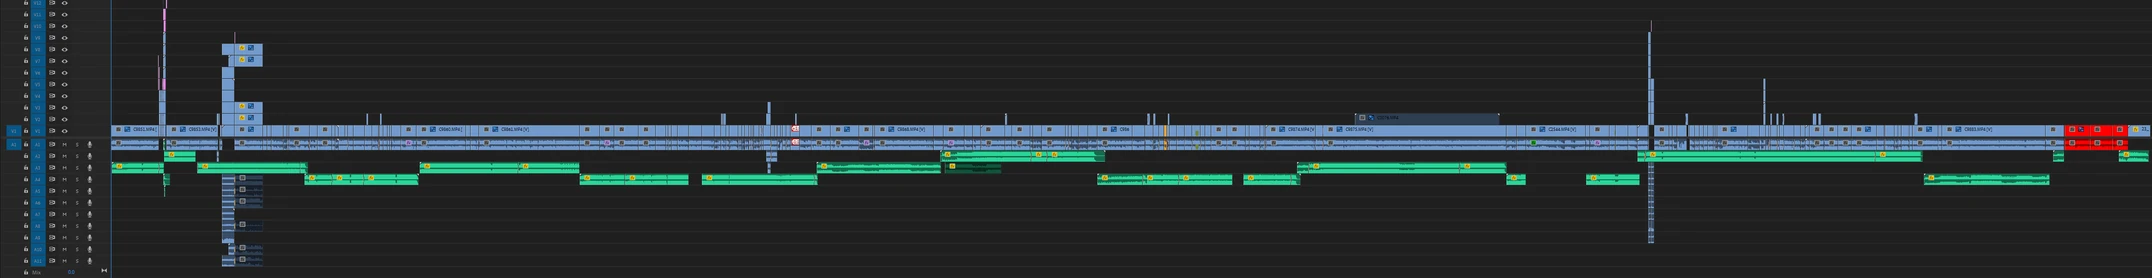
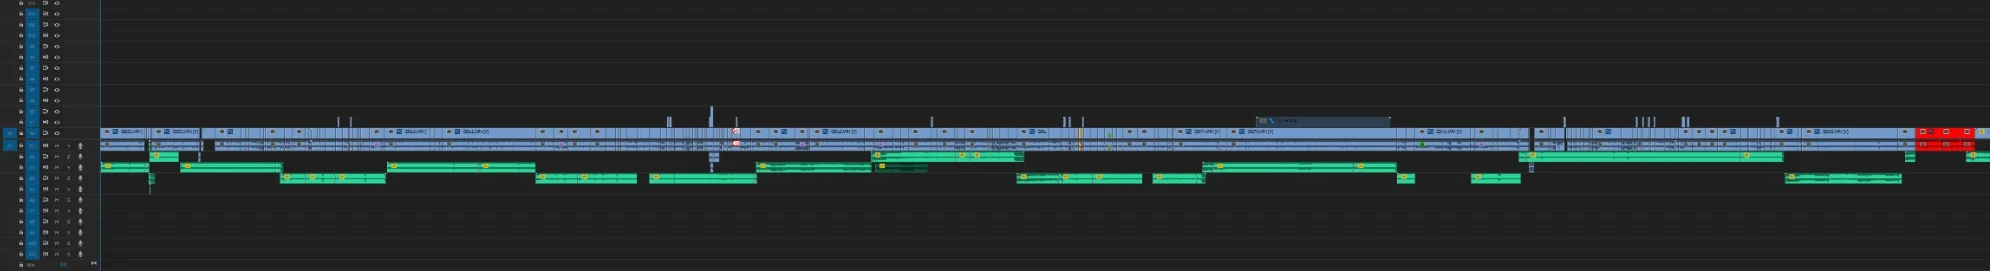
use the new clean timeline and credit the screenshots under the frame

Changed region(s): [[0.0, 0.0, 1.0, 0.9742]]

diff --git a/styles.css b/styles.css
@@ -632,17 +632,16 @@ body {
   grid-template-columns: min(100%, calc(var(--page) + 8rem));
   justify-content: center;
   align-content: center;
-  gap: 2rem;
   padding-inline: var(--pad);
 }
 
-/* Both timelines are cropped to exactly 2152x278, aligned on the V1/A1 track
+/* Both timelines are cropped to exactly 1990x271, aligned on the V1/A1 track
    boundary, so matching the frame to that ratio means object-fit: contain
    lands them pixel on pixel: no letterboxing, no drift between the two. */
 .stage-frame {
   position: relative;
   width: 100%;
-  aspect-ratio: 2152 / 278;
+  aspect-ratio: 1990 / 271;
   background: var(--panel);
   /* An inset outline, not a border: on a strip this wide a 1px border costs
      2px of height, which contain repays as ~16px of letterboxing either side. */
@@ -693,7 +692,7 @@ body {
   position: relative;
   z-index: 2;
   width: min(34rem, 100%);
-  margin: 0;
+  margin: 1.7rem 0 0;
   padding: 1.5rem 1.75rem;
   background: rgba(7, 6, 11, .85);
   backdrop-filter: blur(10px);
@@ -701,7 +700,7 @@ body {
   border-image: linear-gradient(var(--brand-a), var(--brand-b)) 1;
 }
 
-/* A 7.7:1 strip is only ~43px tall on a phone, which makes the timeline
+/* A 7.3:1 strip is only ~46px tall on a phone, which makes the timeline
    unreadable. Go taller and crop from the left instead of shrinking: you
    lose the tail of the sequence but you can actually see the cuts. */
 @media (max-width: 760px) {
@@ -713,6 +712,16 @@ body {
     object-fit: cover;
     object-position: left center;
   }
+}
+
+/* Photo credit, tucked right under the frame the way a caption sits under a
+   printed photo. It reads before the slug, so it stays quiet: label size,
+   dimmed, and never wider than the frame. */
+.stage-note {
+  margin: .7rem 0 0;
+  font: 400 var(--fs-label)/1.5 var(--mono);
+  color: var(--dim);
+  opacity: .72;
 }
 
 /* No pin, no wipe: just show the result. */

diff --git a/index.html b/index.html
@@ -84,6 +84,8 @@
           <img class="stage-img messy" src="images/messytimeline1.webp" alt="A messy, disorganised timeline"
             decoding="async">
         </div>
+        <p class="stage-note">Real Premiere Pro sequences from past edits. Screenshots are cropped for framing,
+          not retouched.</p>
         <div class="clip-text over">
           <p class="slug"><b>V1</b> Clip 02</p>
           <h2>Clean Editing</h2>
